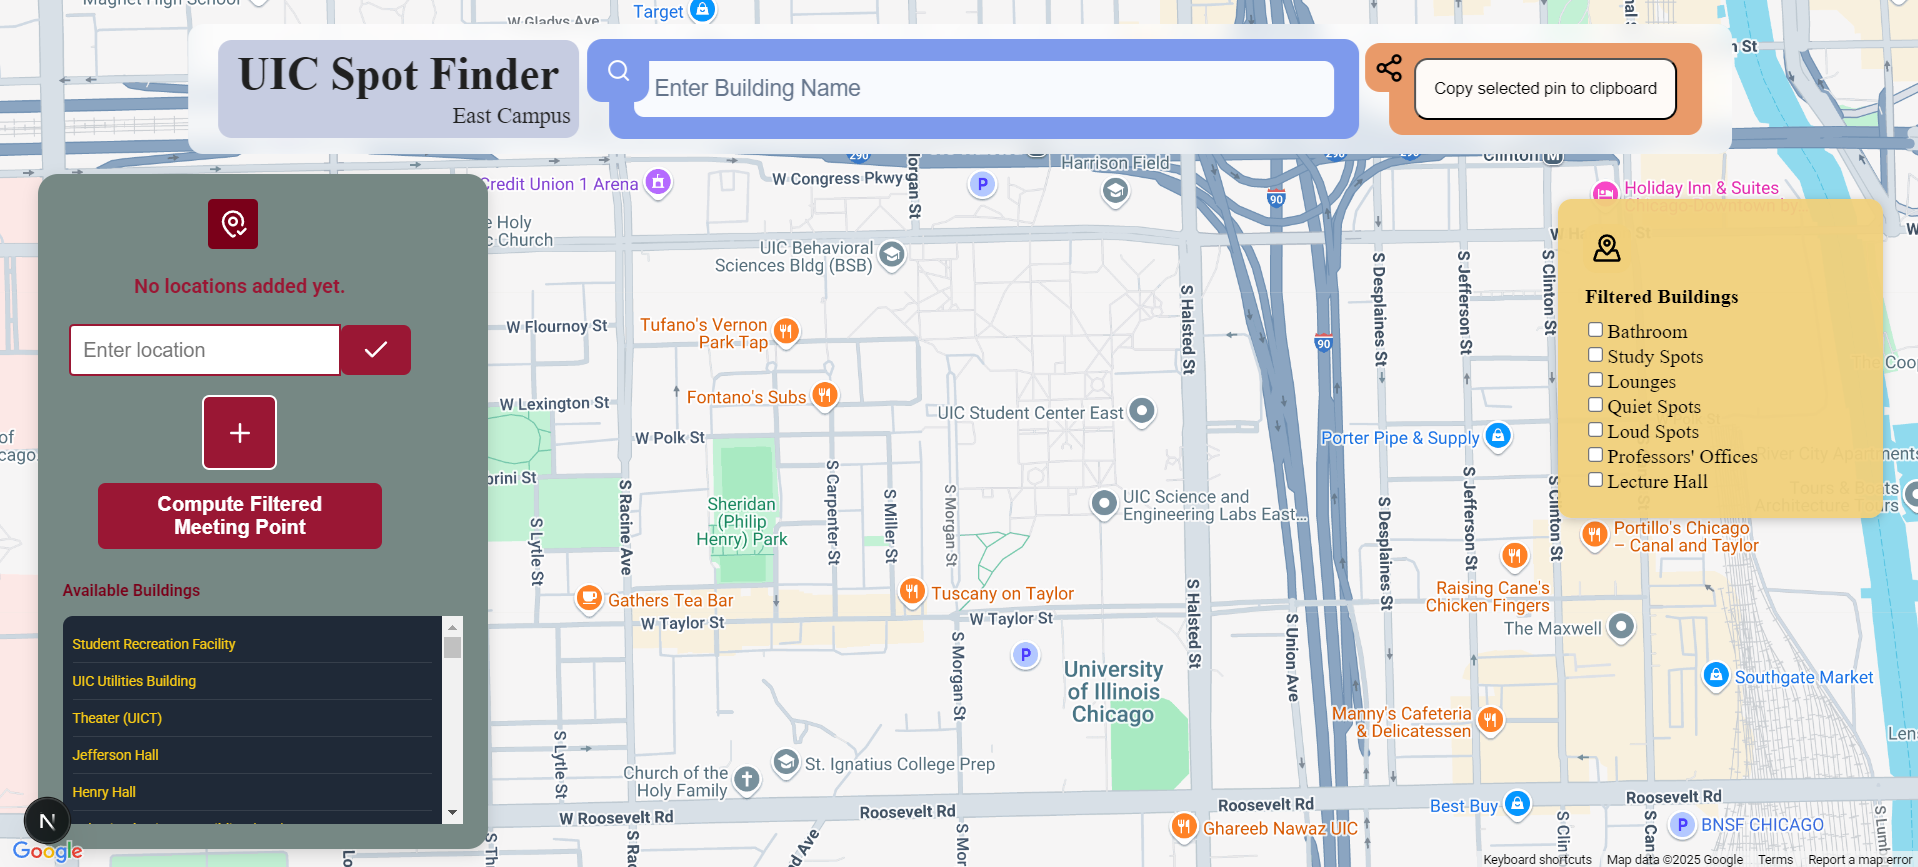
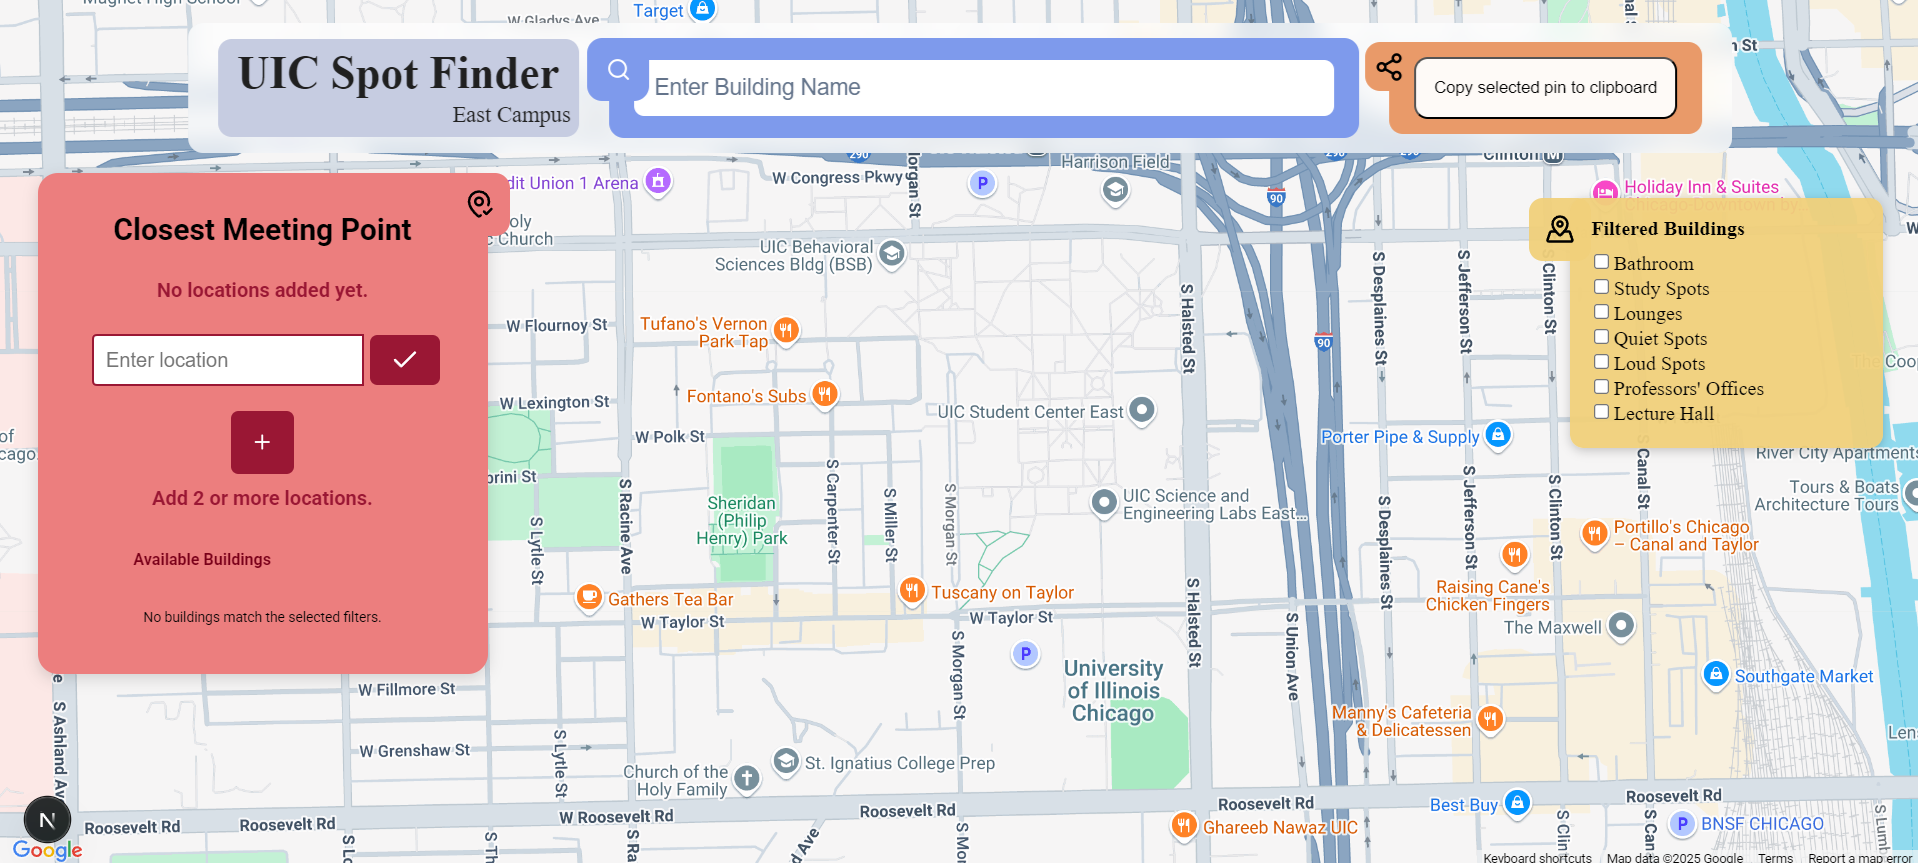
fixed bug that was causing all filters to be applied when the user has not selected any filters.
also updated the README screenshots and instructions to reflect recent changes by team.

diff --git a/frontend/search-uic/app/Components/ClosestSpotFinder.tsx b/frontend/search-uic/app/Components/ClosestSpotFinder.tsx
@@ -52,25 +52,27 @@ export default function ClosestSpotFinder({
         filteredLocations.length > 0 && filteredLocations.some((f) => f)
           ? filters.filter((_, idx) => filteredLocations[idx])
           : [];
-
-      let queryString = "";
-      if (selectedFilters.length > 0) {
-        queryString = `?tags=${encodeURIComponent(selectedFilters.join(","))}`;
+  
+      if (selectedFilters.length === 0) {
+        // No filters selected -> show no buildings
+        setAvailableBuildings([]);
+        setSpots([]); // Also clear the spots if needed
+        return;
       }
-
+  
+      const queryString = `?tags=${encodeURIComponent(selectedFilters.join(","))}`;
+  
       const res = await fetch(
         `http://localhost:5000/buildings_by_multiple_filters${queryString}`
       );
-      const data = await res.json();
-
+      const data: SearchResult[] = await res.json();
+  
       setAvailableBuildings(data || []);
-      if (data) {
-        setSpots(data || []);
-      }
+      setSpots(data || []);
     } catch (err) {
       console.error("Error fetching available buildings:", err);
     }
-  };
+  };  
 
   const fetchMeetingPoint = async () => {
     if (locations.length < 2) {

diff --git a/README.md b/README.md
@@ -91,9 +91,9 @@ Flask was chosen over heavier frameworks like Django to maintain simplicity, lig
 > **Note:** Ensure that the Flask backend is running on port 5000 before starting the frontend, as it depends on backend API responses.
 
 ## How to Use the App
-1. On the landing page, enter and select the name of a building in the search bar. This will cause a map icon to appear at that building, along with an option to copy a google maps link to that building at the top-right. 
-2. After planning out your starting buildings, add multiple starting locations on the left-side.
-3. Optionally, apply filters such as "Quiet Spots", "Lecture Hall", or "Study Spots". This will filter the available buildings list at the bottom-left (as well as the main search bar).
+1. On the landing page, apply filters such as "Quiet Spots", "Lecture Hall", or "Study Spots". This will filter the available buildings list at the bottom-left, as well as the main search bar. 
+2. Enter and select the name of a building in the search bar. This will cause a map icon to appear at that building, along with an option to copy a google maps link to that building at the top-right.
+3. After planning out your filters and starting buildings, add multiple starting locations on the left-side.
 4. Click "Compute Filtered Meeting Point".
 5. View the optimized meeting location suggested on the interactive map.
 6. Copy the meeting link for easy sharing!
